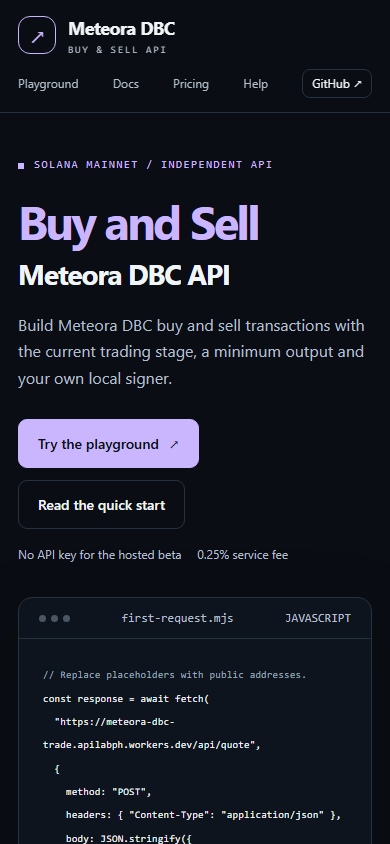
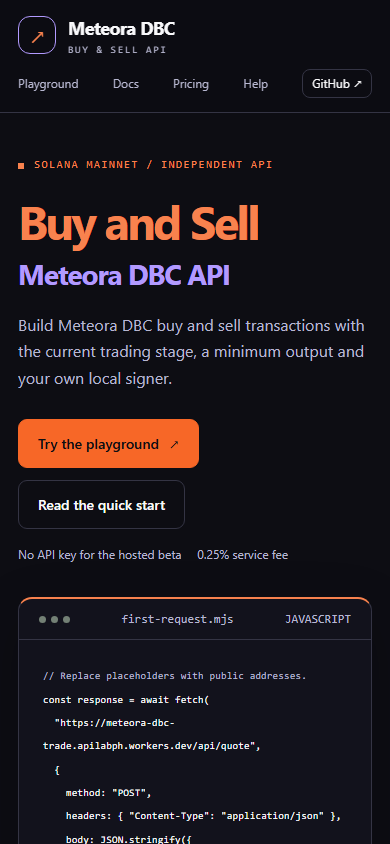
Match developer website theme to launchpad identity

diff --git a/website/style.css b/website/style.css
@@ -1,13 +1,28 @@
-:root {
+:root {
   color-scheme: dark;
-  --bg: #0a0e14;
-  --panel: #101720;
-  --line: #27323f;
-  --text: #f1f5f7;
-  --muted: #b3bfcb;
-  --accent: #aab8ff;
-  --accent-ink: #0a1014;
-  --radius: 18px;
+  --bg: #0d0d13;
+  --panel: #12121c;
+  --surface: #181825;
+  --line: #343444;
+  --text: #f9f9fb;
+  --muted: #b7b7d0;
+  --accent: #f8824e;
+  --secondary: #b29aff;
+  --action: #f76727;
+  --accent-ink: #0d0d13;
+  --topbar: #0d0d13f5;
+  --control-border: #72728c;
+  --comment: #b7b7d0;
+  --tab-bg: #ffffff0d;
+  --window-dot: #738075;
+  --notice-bg: #1b1b18;
+  --notice-text: #dbcfb5;
+  --notice-title: #f3d597;
+  --notice-border: #827049;
+  --error: #ffb8ac;
+  --success: #b5e9d2;
+  --radius: 14px;
+  --button-radius: 9px;
   font-family:
     Inter,
     ui-sans-serif,
@@ -69,8 +84,8 @@ button:disabled {
   position: absolute;
   left: 16px;
   top: -80px;
-  background: var(--accent);
-  color: #000;
+  background: var(--action);
+  color: var(--accent-ink);
   padding: 10px;
   z-index: 10;
 }
@@ -79,7 +94,7 @@ button:disabled {
 }
 .topbar {
   border-bottom: 1px solid var(--line);
-  background: #0a0e14f5;
+  background: var(--topbar);
   position: sticky;
   top: 0;
   z-index: 5;
@@ -201,7 +216,7 @@ button:disabled {
   gap: 10px;
   text-decoration: none;
   border: 1px solid var(--line);
-  border-radius: 9px;
+  border-radius: var(--button-radius);
   padding: 12px 19px;
   color: var(--text);
   background: transparent;
@@ -210,9 +225,9 @@ button:disabled {
   min-height: 46px;
 }
 .button.primary {
-  background: var(--accent);
+  background: var(--action);
   color: var(--accent-ink);
-  border-color: var(--accent);
+  border-color: var(--action);
 }
 .button:hover {
   filter: brightness(1.12);
@@ -229,9 +244,9 @@ button:disabled {
 .editor {
   border: 1px solid var(--line);
   border-radius: 14px;
-  background: #0e141d;
+  background: var(--panel);
   overflow: hidden;
-  box-shadow: 0 24px 75px #0003;
+  box-shadow: 0 18px 55px #0003;
   min-width: 0;
 }
 .editor-top {
@@ -255,7 +270,7 @@ button:disabled {
   width: 7px;
   height: 7px;
   border-radius: 50%;
-  background: #4b5664;
+  background: var(--window-dot);
 }
 .editor pre {
   padding: 24px;
@@ -264,7 +279,7 @@ button:disabled {
   line-height: 1.95;
 }
 .comment {
-  color: #9aa9ba;
+  color: var(--comment);
 }
 .syntax {
   color: var(--accent);
@@ -317,15 +332,15 @@ code {
   gap: 16px;
   align-items: flex-start;
   font-size: 13px;
-  color: #dbcfb5;
-  background: #191a19;
-  border: 1px solid #3e392e;
+  color: var(--notice-text);
+  background: var(--notice-bg);
+  border: 1px solid var(--notice-border);
   border-radius: 10px;
   padding: 16px 20px;
 }
 .release b {
   white-space: nowrap;
-  color: #f3d597;
+  color: var(--notice-title);
 }
 .release p {
   margin: 0;
@@ -406,13 +421,17 @@ h3 {
 .field select {
   width: 100%;
   margin-top: 7px;
-  border: 1px solid #435262;
+  border: 1px solid var(--control-border);
   border-radius: 7px;
-  background: #0a1018;
+  background: var(--surface);
   color: var(--text);
   padding: 10px 12px;
   min-height: 44px;
   font-size: 13px;
+}
+.field input::placeholder {
+  color: var(--muted);
+  opacity: 1;
 }
 .field small {
   display: block;
@@ -449,7 +468,7 @@ h3 {
 }
 .tabs button[aria-pressed="true"] {
   color: var(--accent);
-  background: #ffffff09;
+  background: var(--tab-bg);
 }
 .code-area {
   padding: 24px;
@@ -482,7 +501,7 @@ h3 {
 .output pre {
   max-height: 320px;
   overflow: auto;
-  background: #0a1018;
+  background: var(--surface);
   padding: 14px;
   border-radius: 8px;
 }
@@ -492,17 +511,17 @@ h3 {
   margin: 10px 0;
 }
 .feedback.error {
-  color: #ffb8ac;
+  color: var(--error);
 }
 .feedback.success {
-  color: #b5e9d2;
+  color: var(--success);
 }
 .hint {
   font-size: 12px;
   line-height: 1.6;
   color: var(--muted);
   padding: 12px 14px;
-  background: #0a1018;
+  background: var(--surface);
   border-left: 2px solid var(--accent);
   border-radius: 0 6px 6px 0;
 }
@@ -590,10 +609,10 @@ h3 {
   font:
     10px ui-monospace,
     monospace;
-  border: 1px solid #545346;
+  border: 1px solid var(--notice-border);
   border-radius: 4px;
   padding: 3px 6px;
-  color: #ead296;
+  color: var(--notice-title);
   margin-left: 6px;
   white-space: nowrap;
 }
@@ -702,7 +721,7 @@ footer {
   display: none !important;
 }
 .noscript {
-  border: 1px solid #d0a75a;
+  border: 1px solid var(--notice-border);
   padding: 16px;
 }
 .key-points {
@@ -914,6 +933,14 @@ footer {
   }
 }
 
-:root {
-  --accent: #c9b6ff;
+/* Visual reference: https://www.meteora.ag/. Independent APILabPH integration. */
+.editor {
+  border-top: 2px solid var(--accent);
+}
+.mark {
+  border-color: var(--secondary);
+  color: var(--accent);
+}
+.hero-product {
+  color: var(--secondary);
 }

diff --git a/website/config.js b/website/config.js
@@ -7,10 +7,10 @@ export const config = {
   native: "SOL",
   evm: false,
   needsMarket: true,
-  accent: "#c9b6ff",
+  accent: "#f8824e",
   port: 8811,
   fee: "DYjod9qNZvNu93yhdEw7pnASdt8FdghQF5WhEU7CgEXj",
-  hero: "From the curve<br>to the pool.<br><span>Keep your keys.</span>",
+  hero: "Buy and Sell Meteora DBC API",
   lead: "Build Meteora DBC buy and sell transactions with the current trading stage, a minimum output and your own local signer.",
   status:
     "Unsigned builds are available in beta. Read-only mainnet simulations passed; funded buys and sells have not been tested.",

diff --git a/website/index.html b/website/index.html
@@ -8,7 +8,7 @@
       name="description"
       content="Build Meteora DBC buy and sell transactions with the current trading stage, a minimum output and your own local signer. Guided examples, supported markets and transparent 0.25% fees."
     />
-    <meta name="theme-color" content="#0a0e14" />
+    <meta name="theme-color" content="#0d0d13" />
     <link
       rel="canonical"
       href="https://meteora-dbc-trade.apilabph.workers.dev/"

diff --git a/website/README.md b/website/README.md
@@ -28,11 +28,19 @@ The playground uses a small local proxy because the production Solana APIs do no
 
 The browser never connects to a wallet. The trade option generates build code; it does not execute a build or trade. Current status and coverage text are explicit editorial content in website/index.html and website/config.js. Update them only after verifying the corresponding release.
 
+## Visual theme
+
+Orange actions, violet details and deep charcoal panels, following the official Meteora interface. Reference: [official Meteora website](https://www.meteora.ag/), inspected in Edge on October 13, 2026. The palette is a design reference, not an affiliation claim. APILabPH keeps its own arrow mark, copy, examples and independent-integration identity.
+
+Theme variables in `website/style.css` cover the page, navigation, controls, code panels, notices and feedback. The browser theme color, favicon and config accent match. Light text and colored links remain readable on the dark surfaces. System fonts keep the preview self-contained without external font requests.
+
 ## Checks and evidence
 
 Run `npm run site:check` for request-generation, public-address/amount validation, string escaping, read-only proxy, origin restrictions and credential-field rejection tests. These seven cases also run under `npm test`.
 
 All five local sites were checked in installed Microsoft Edge via Playwright at 1440×1000 and 390×844. Code tabs, operation changes, exact sell amounts, disabled browser trade submission, success/error guidance and FAQ interaction passed with no JavaScript errors or horizontal overflow. UI success/error cases use mocked responses; see docs/evidence/website-local-browser.json. Screenshots are in docs/evidence/website-desktop.png and website-mobile.png.
+
+The launchpad theme revision was also checked at widths 320, 390, 760, 768, 1024 and 1440 pixels. All kept the headline visible without horizontal overflow. Sampled text contrast was at least 6.39:1; the checked input border was 3.76:1 and placeholder text was 8.94:1. See docs/evidence/website-theme-review.json. These are targeted layout and contrast checks, not a complete accessibility audit.
 
 Actual read-only calls through the local proxy are recorded separately in website-local-readback.json. These do not prove a funded trade or reliable production capacity. No private keys were used.
 
